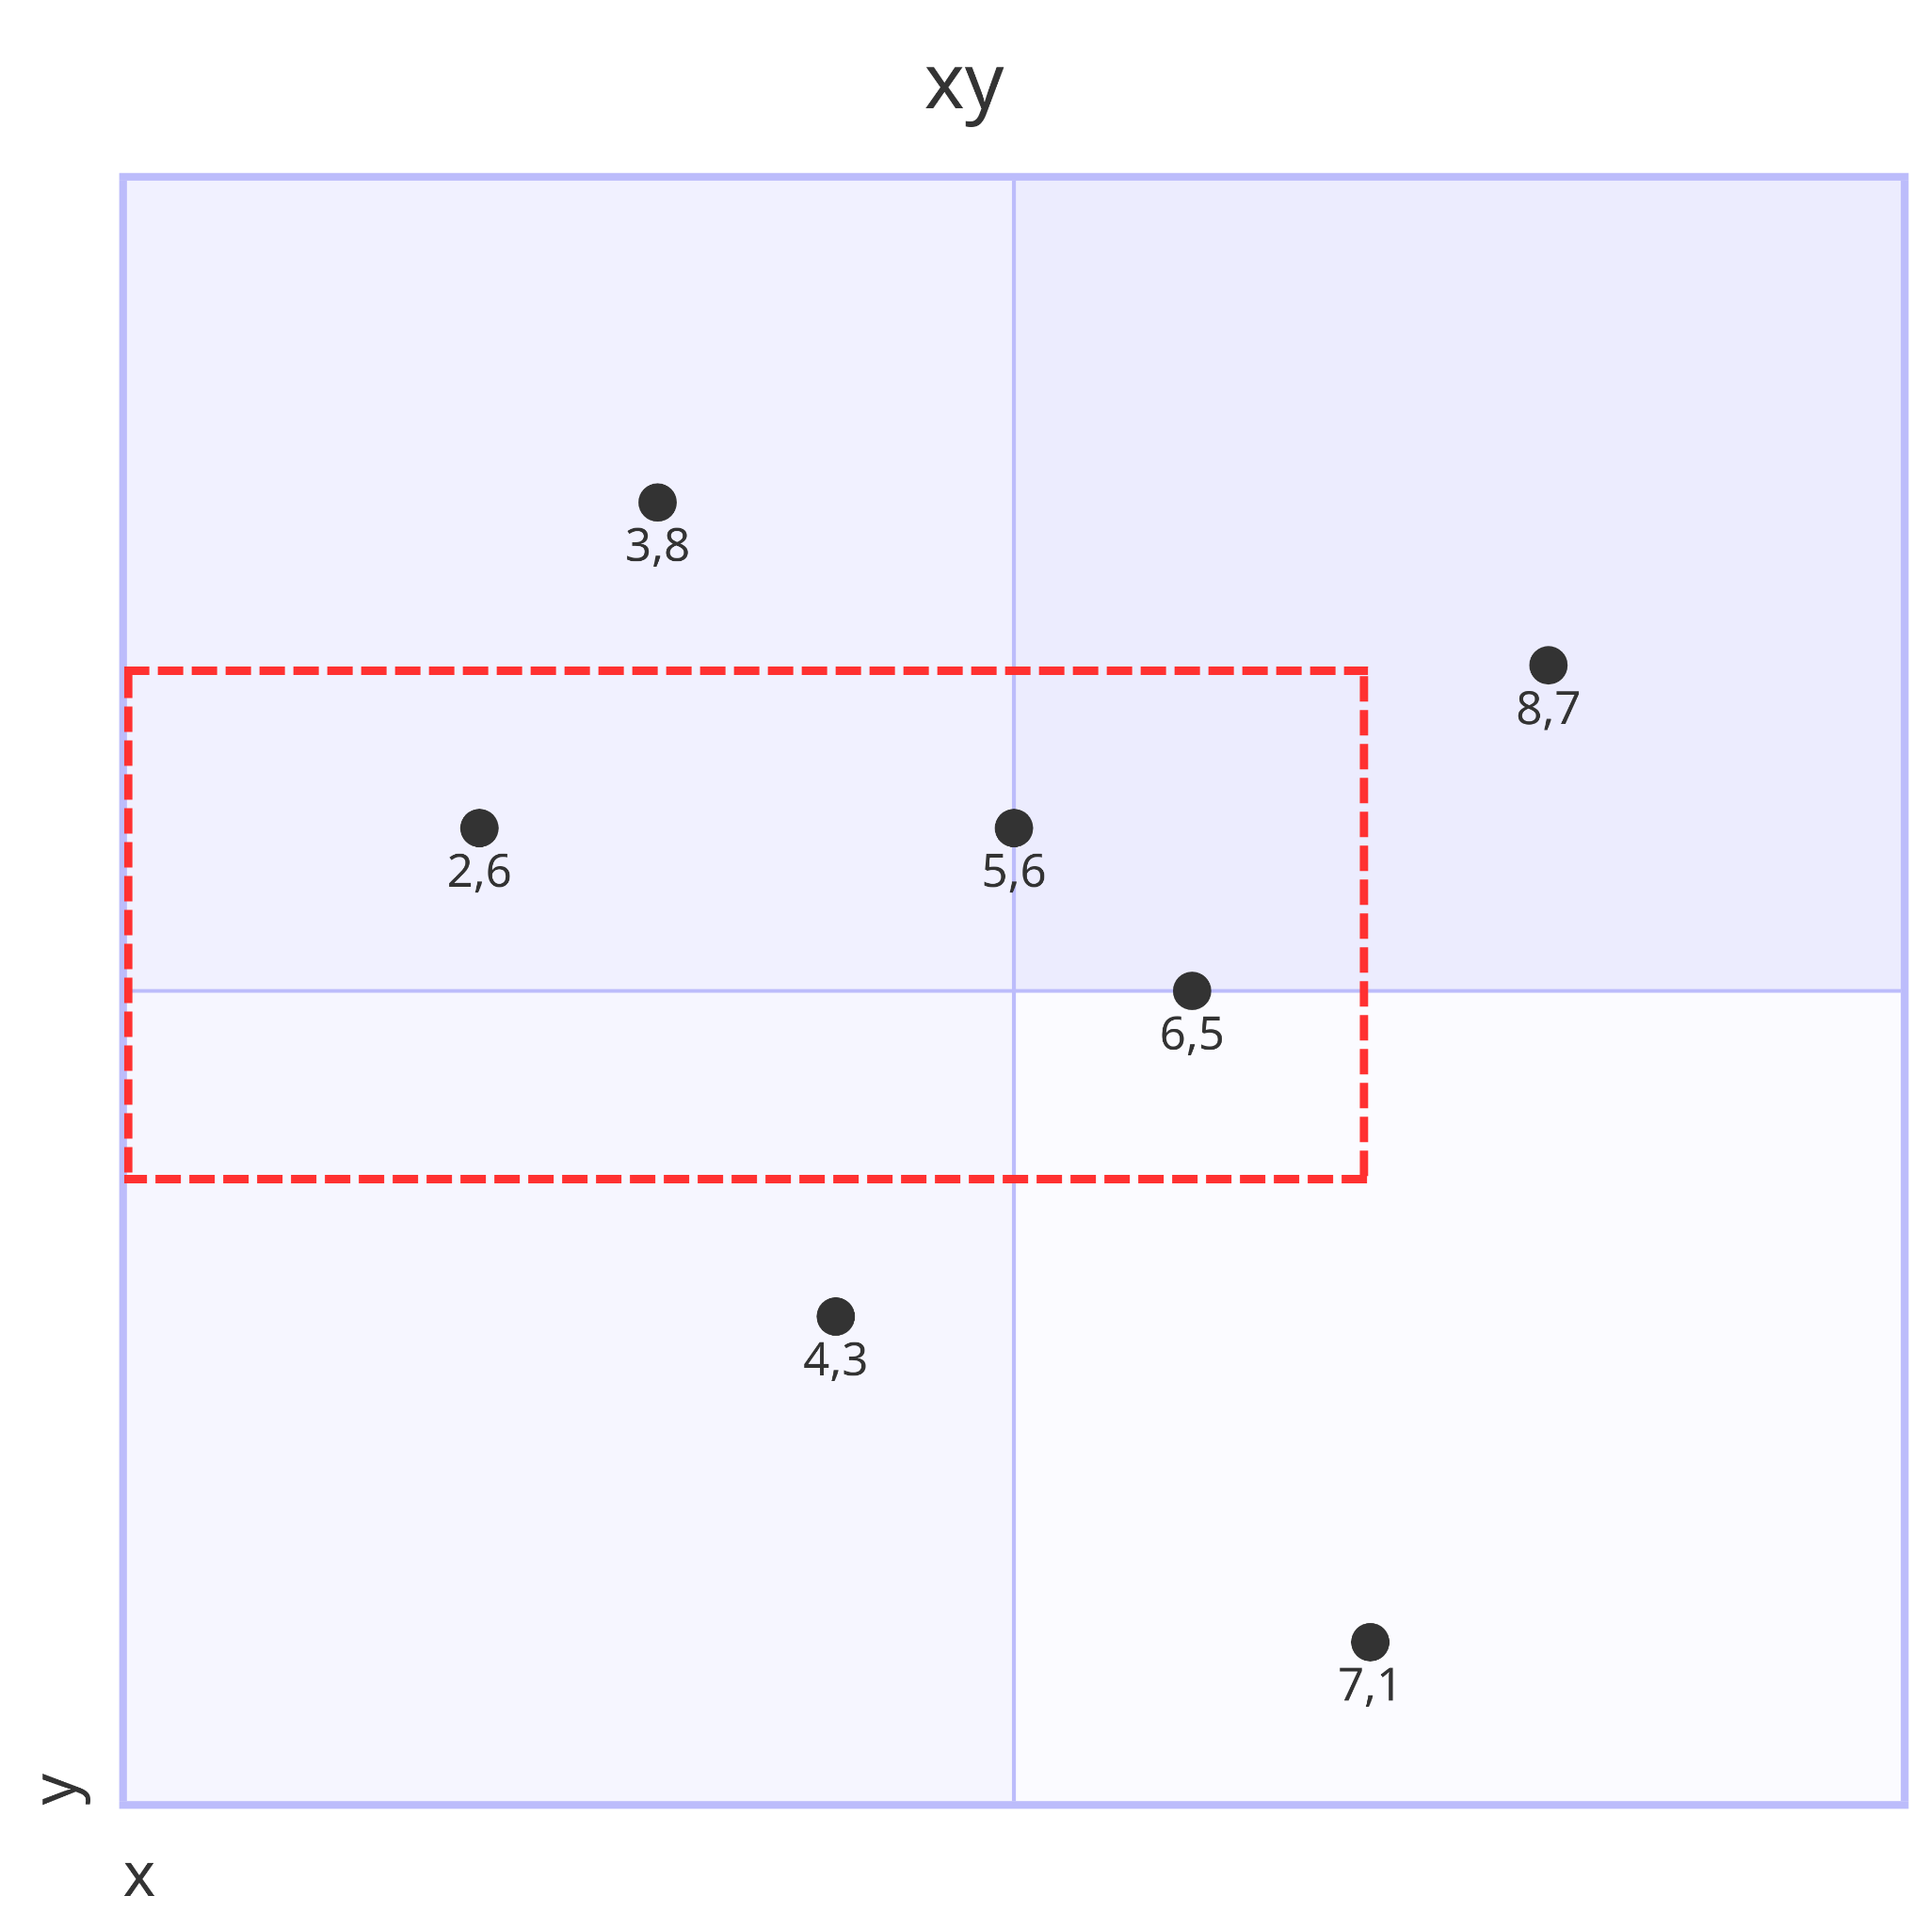
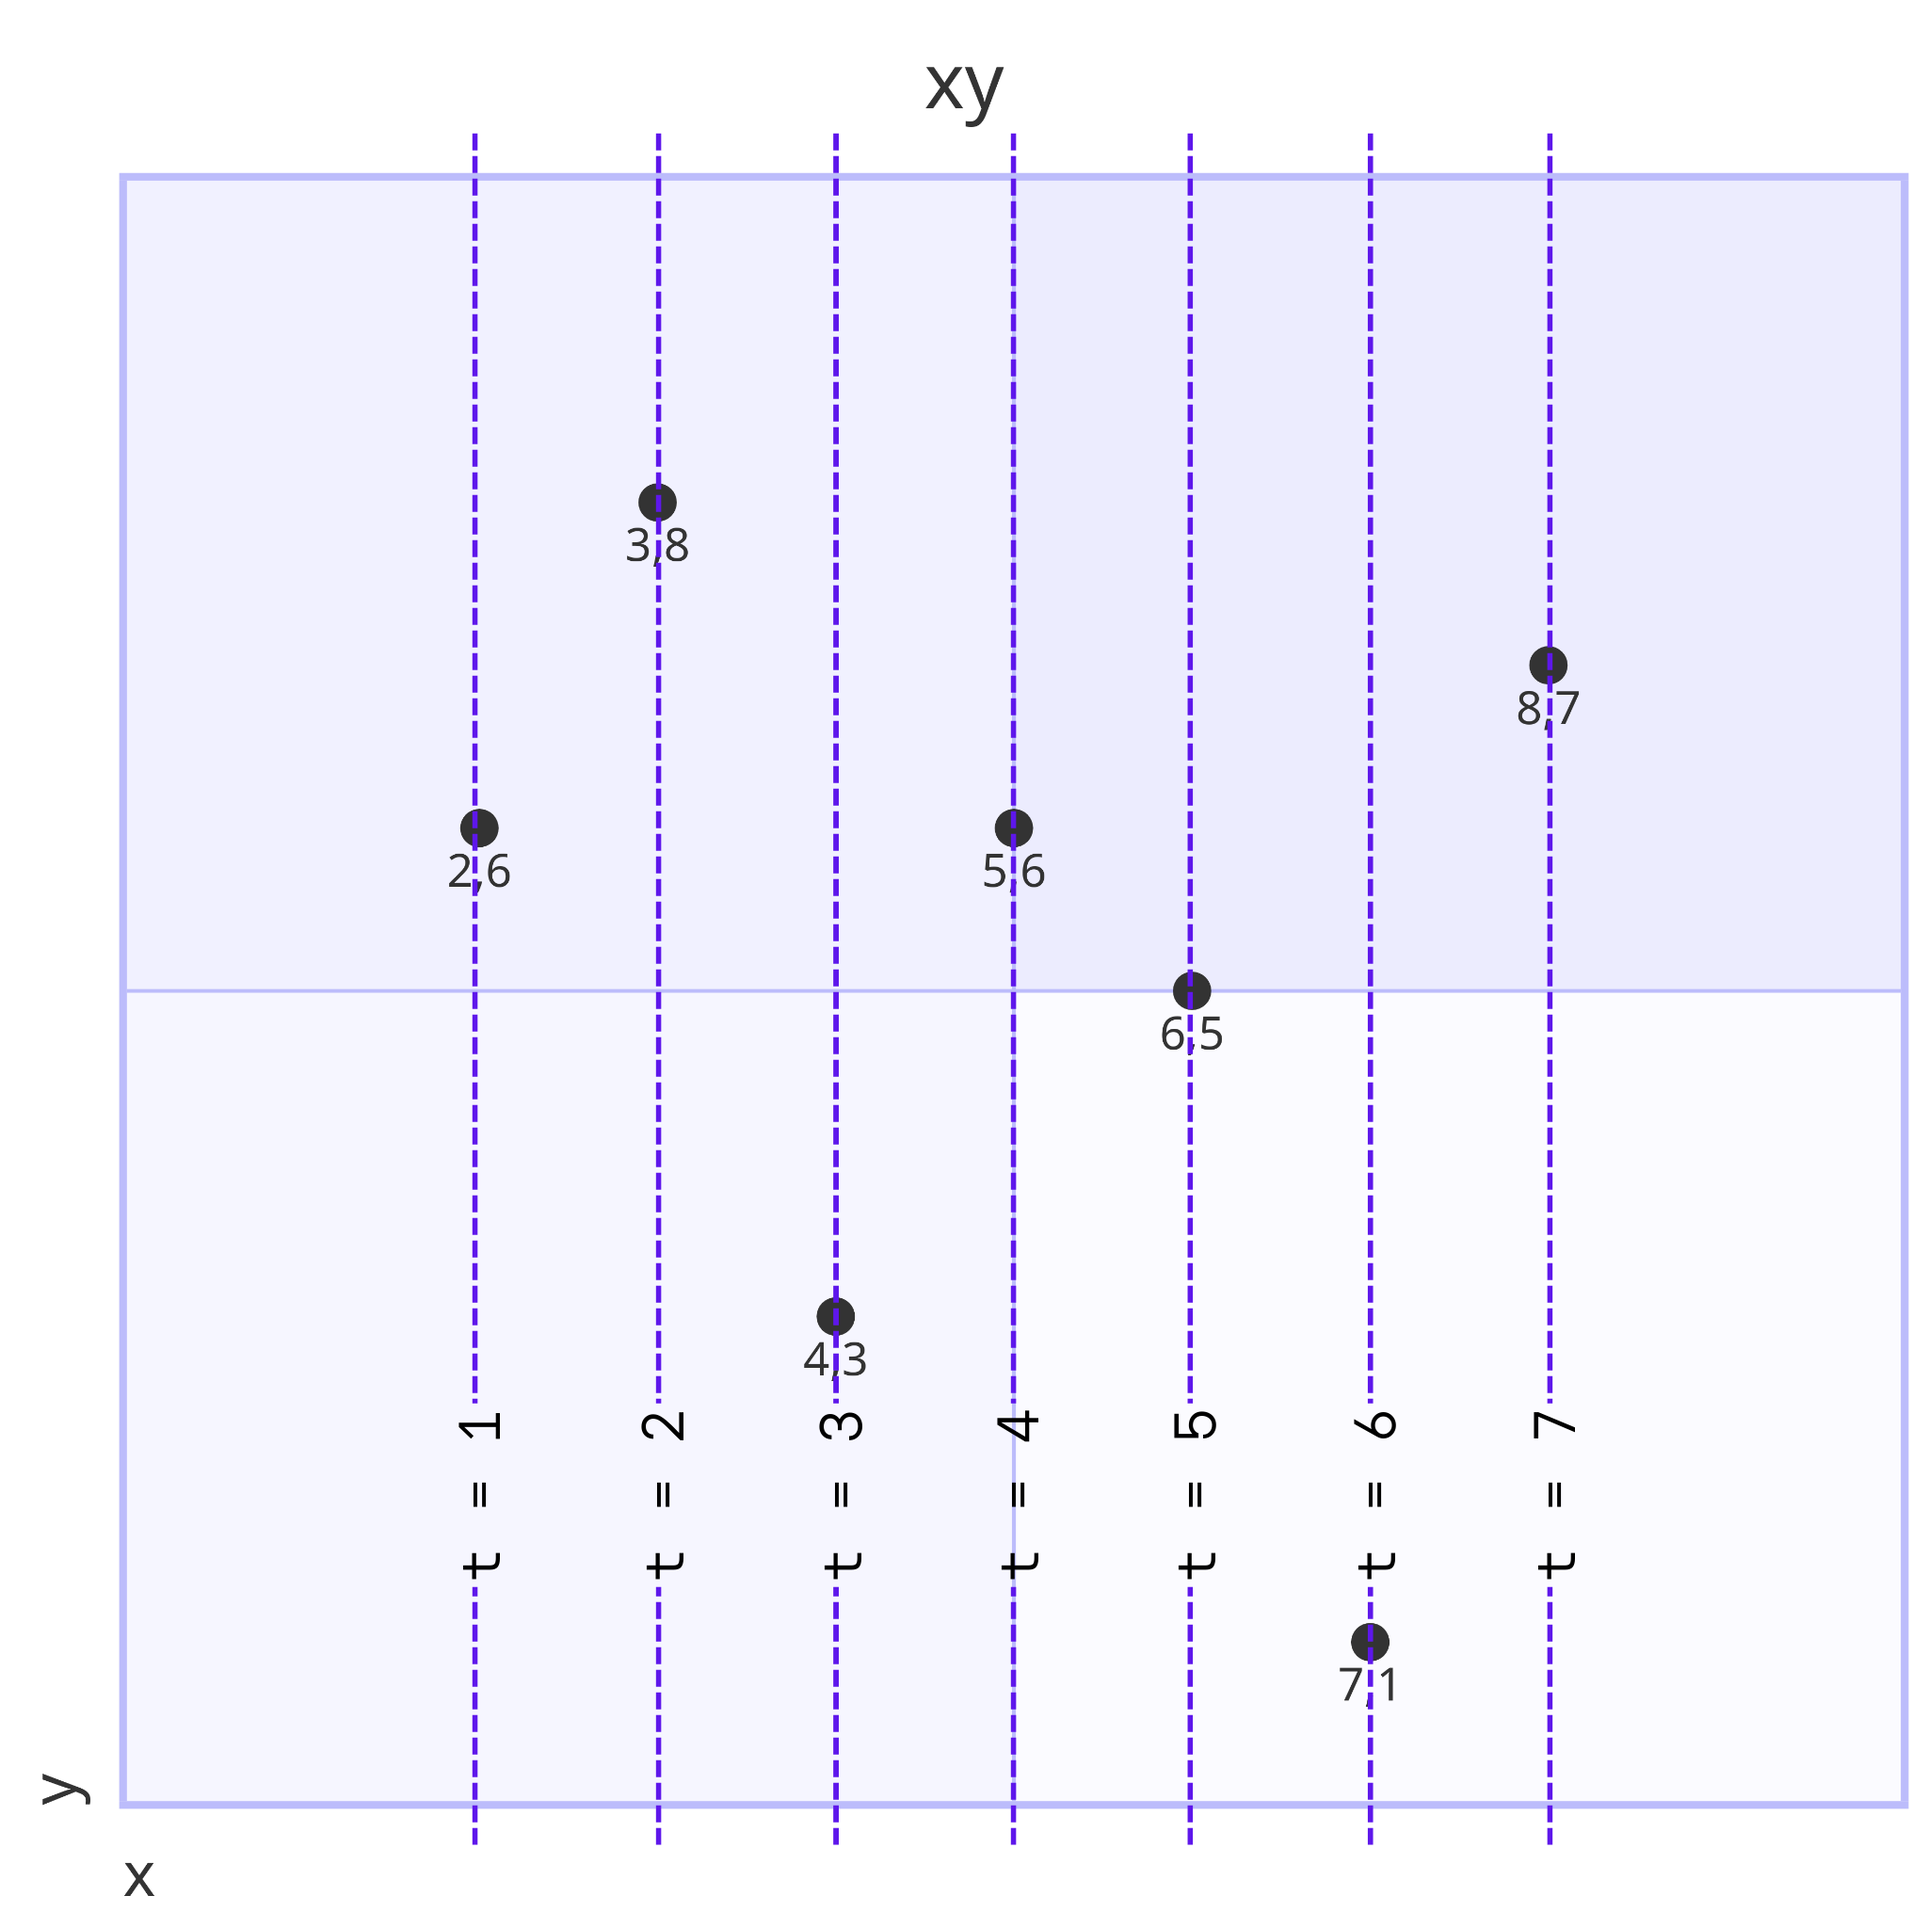
포스트 업데이트

Changed region(s): [[0.0625, 0.3438, 0.7188, 0.625], [0.6875, 0.7188, 0.7188, 0.75], [0.5938, 0.7188, 0.625, 0.75]]

diff --git a/_posts/2024-01-30-pst.md b/_posts/2024-01-30-pst.md
@@ -284,7 +284,7 @@ class SegmentTree:
 
 ## 응용
 
-퍼시스턴트 세그먼트 트리를 사용하면 2차원 평면 상에서 임의의 직사각형 영역에 대한 평면 쿼리를 해결할 수 있다. 다음 문제를 보자.
+퍼시스턴트 세그먼트 트리를 사용하면 다음 문제를 풀 수 있다.
 
 > $xy$ 평면에 여러 점들이 있다. 점들의 좌표는 모두 정수이다. 이에 다음 명령을 처리하는 프로그램을 작성하시오.
 >
@@ -306,6 +306,8 @@ class SegmentTree:
 
 주어진 평면의 $x$축을 시간축으로 보자. $y$축 크기만큼의 배열을 퍼시스턴트 세그먼트 트리로 관리하며 처음($t=0$)에는 배열의 값을 전부 0으로 초기화한다. 점들을 시간($x$ 좌표값)순으로 나열하고 이 순서대로 점들의 $y$ 좌표에 해당하는 인덱스에 더하기 1을 해준다. 위의 예시의 경우 7개의 점에 대해 각각 $t$번째 점마다 트리에 다음과 같은 상태들이 저장될 것이다.
 
+<img src="{{ site.url }}{{ site.baseurl }}/assets/images/posts/pst-1.png">
+
 | $y$   | 0 | 1 | 2 | 3 | 4 | 5 | 6 | 7 | 8 | 9 |
 | ---   | - | - | - | - | - | - | - | - | - | - |
 | $t=0$ |   |   |   |   |   |   |   |   |   |   |
@@ -317,12 +319,12 @@ class SegmentTree:
 | $t=6$ |   | 1 |   | 1 |   | 1 | 2 |   | 1 |   |
 | $t=7$ |   | 1 |   | 1 |   | 1 | 2 | 1 | 1 |   |
 
-이렇게 관리를 하게 되면 시점 $t$에서의 $\left[l, r\right)$ 범위의 구간 합은 $x$ 좌표값 순으로 $t$번째의 점과 그 왼쪽에 있는 점들 중에서 $y$ 좌표가 $\left[l, r\right)$ 범위 안에 있는 모든 점들의 개수가 된다. 예시로, $t=6$에서의 $\left[4, 8\right)$ 범위의 구간 합은 다음 그림의 빨간 테두리 안의 범위에 있는 점의 개수이다.
+이렇게 관리를 하게 되면 시점 $t$에서의 $\left[l, r\right)$ 범위의 구간 합은 $x$ 좌표값 순으로 $t$번째의 점과 그 왼쪽에 있는 점들 중에서 $y$ 좌표가 $\left[l, r\right)$ 범위 안에 있는 모든 점들의 개수가 된다. 예시로, $t=6$에서의 $\left[4, 8\right)$ 범위의 구간 합은 다음 그림의 빨간 영역에 걸쳐있는 점의 개수이다.
 
-<img src="{{ site.url }}{{ site.baseurl }}/assets/images/posts/pst-1.png">
+<img src="{{ site.url }}{{ site.baseurl }}/assets/images/posts/pst-2.png">
 
 이제 이 퍼시스턴트 세그먼트 트리를 바탕으로 쿼리를 처리해보자. `3 4 7 8`의 답은 무엇일까? $x$ 좌표가 $\left[3, 7\right)$ 범위에 속해있는 점들 중 $x$ 좌표값 순으로 가장 뒤에 있는 점은 $(6, 5)$(5번째 점)이다. 그리고 $x$ 좌표가 $\left[3, 7\right)$ 범위의 왼쪽, 즉 3보다 작은 점들 중 $x$ 좌표값 순으로 가장 뒤에 있는 점은 $(2, 6)$(1번째 점)이다. 따라서 정답은 시점 $t=5$에서의 $\left[4, 8\right)$ 구간 합에서 시점 $t=1$에서의 $\left[4, 8\right)$ 구간 합을 뺌으로서 구할 수 있다. 
 
-<img src="{{ site.url }}{{ site.baseurl }}/assets/images/posts/pst-2.png">
+<img src="{{ site.url }}{{ site.baseurl }}/assets/images/posts/pst-3.png">
 
 퍼시스턴트 세그먼트 트리를 이용하면 위 문제의 명령을 $O(\log N)$의 시간복잡도로 해결할 수 있다.
